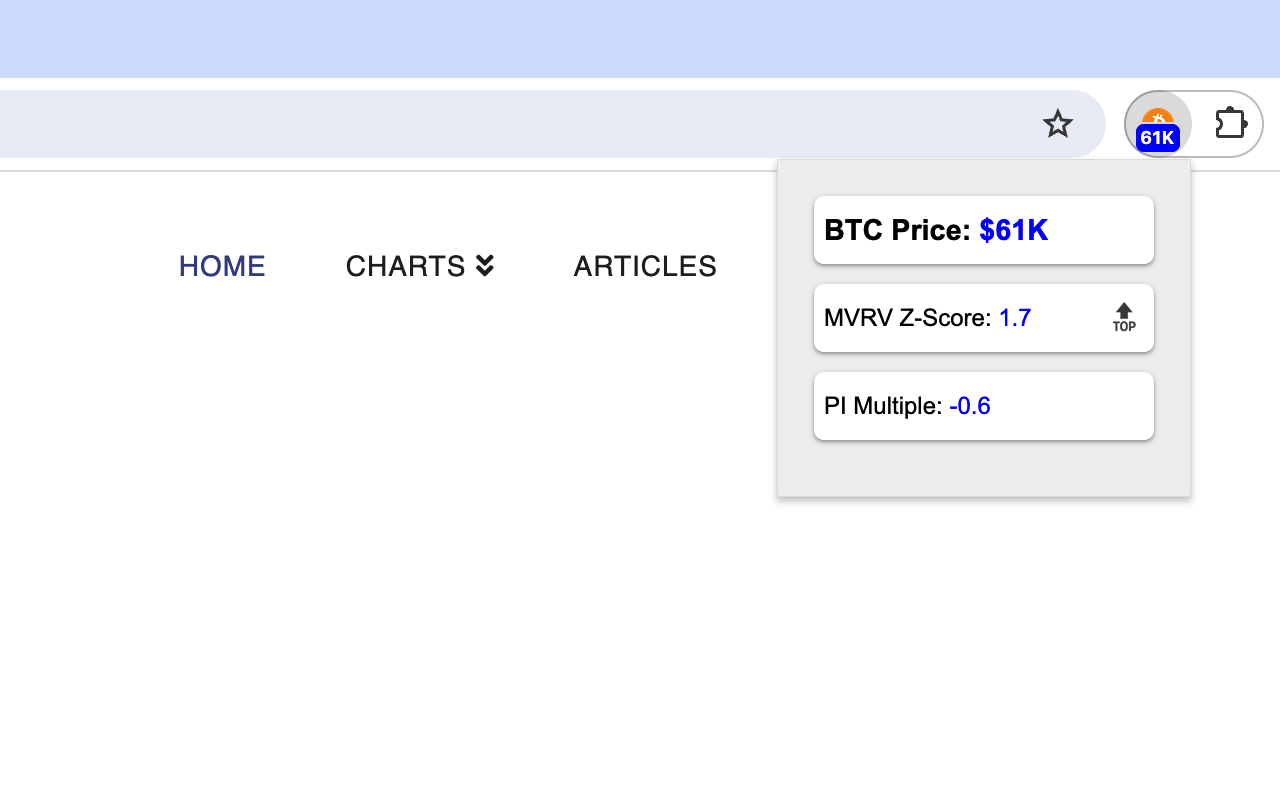
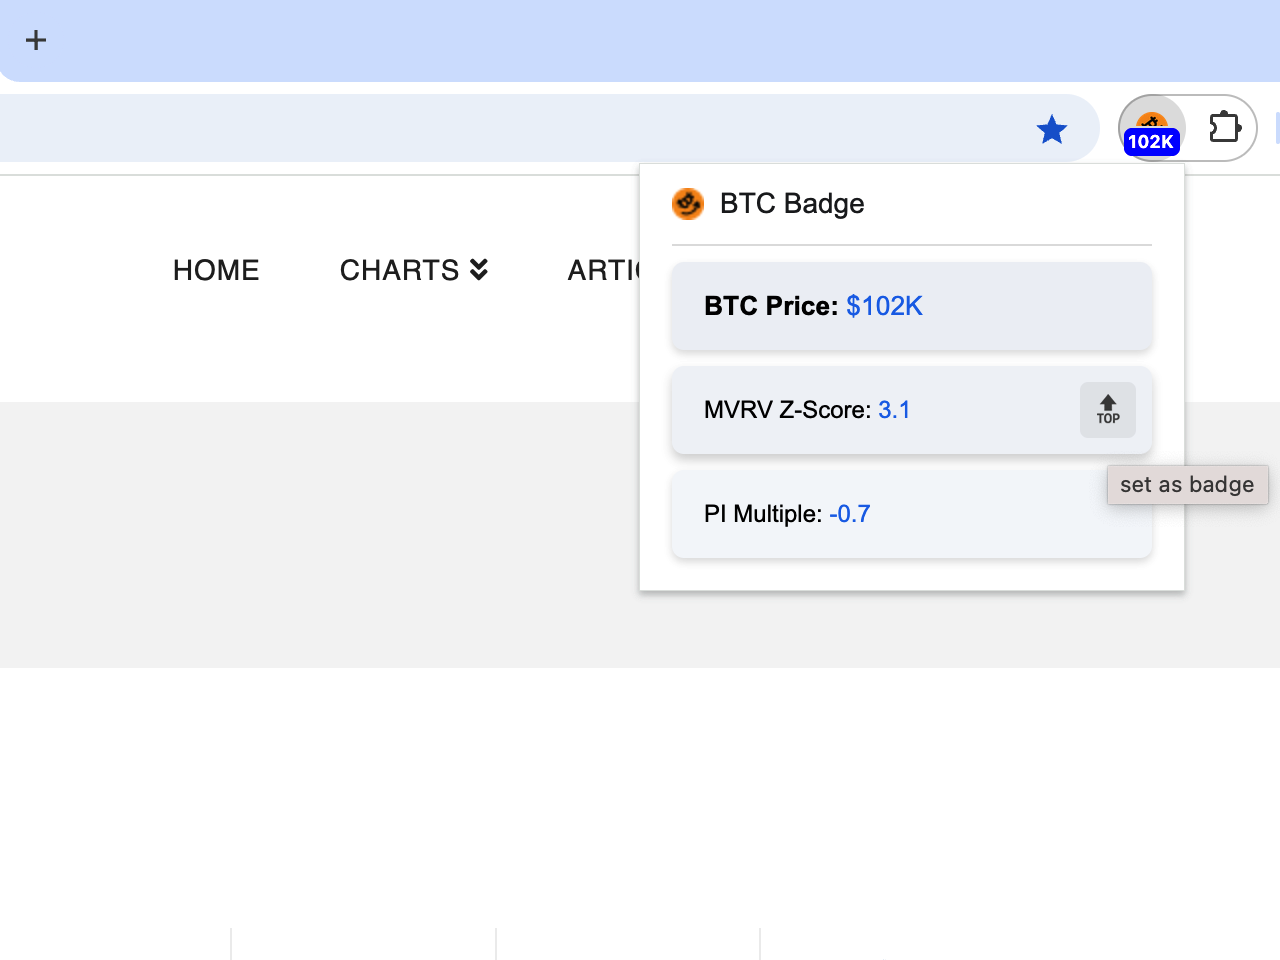
update style

diff --git a/styles.css b/styles.css
@@ -1,6 +1,6 @@
 body {
-    width: 200px;
-    padding: 0;
+    width: 240px;
+    padding: 0 16px;
     margin: 0;
     font-family: Arial, sans-serif;
     background-color: #ffffff;
@@ -9,10 +9,17 @@ body {
 .header {
     display: flex;
     align-items: center;
-    padding: 12px 16px;
+    padding: 12px 0;
     background-color: #ffffff;
     border-bottom: 1px solid #e0e0e0;
     margin-bottom: 8px;
+}
+
+.header-link {
+    display: flex;
+    align-items: center;
+    text-decoration: none;
+    color: inherit;
 }
 
 .header-icon {
@@ -27,12 +34,16 @@ body {
     color: #202124;
 }
 
+#stats {
+    padding-bottom: 8px;
+}
+
 .stats {
     margin-bottom: 8px;
-    padding: 10px 12px;
-    background-color: white;
+    padding: 10px 16px;
+    background-color: #f5f7fa;
     border-radius: 6px;
-    box-shadow: 0 1px 3px rgba(0,0,0,0.08);
+    box-shadow: 0 2px 4px rgba(0,0,0,0.12);
     position: relative;
     min-height: 24px;
     line-height: 24px;
@@ -41,18 +52,20 @@ body {
 }
 
 .stats:hover {
-    box-shadow: 0 2px 4px rgba(0,0,0,0.12);
+    box-shadow: 0 3px 6px rgba(0,0,0,0.16);
+    background-color: #f0f3f8;
 }
 
 .stats.first-child {
     font-weight: 600;
     font-size: 1.1em;
-    background-color: #f8f9fa;
+    background-color: #eef1f6;
 }
 
 .stats span {
     color: #1a73e8;
     font-weight: 500;
+    transition: color 0.2s ease;
 }
 
 .pin-button {
@@ -62,7 +75,7 @@ body {
     transform: translateY(-50%);
     width: 28px;
     height: 28px;
-    display: none;
+    opacity: 0;
     background: none;
     border: none;
     font-size: 16px;
@@ -72,6 +85,10 @@ body {
     transition: all 0.2s ease;
 }
 
+.stats:hover .pin-button {
+    opacity: 1;
+}
+
 .pin-button:hover {
     background-color: rgba(0, 0, 0, 0.05);
 }
@@ -79,6 +96,7 @@ body {
 a {
     color: inherit;
     text-decoration: none;
+    transition: color 0.2s ease;
 }
 
 a:hover {

diff --git a/popup.html b/popup.html
@@ -1,13 +1,16 @@
 <!DOCTYPE html>
-<html>
+<html lang="en">
 <head>
     <meta charset="UTF-8">
+    <meta name="viewport" content="width=device-width, initial-scale=1.0">
     <link rel="stylesheet" type="text/css" href="styles.css">
 </head>
 <body>
     <div class="header">
-        <img src="icon16.png" alt="BTC Badge" class="header-icon">
-        <span class="header-title">BTC Badge</span>
+        <a href="https://chromewebstore.google.com/detail/btc-badge-bitcoin-price-t/ifjgfkaoepolegjfndicdmcmigjdoofe" target="_blank" class="header-link">
+            <img src="icon16.png" alt="BTC Badge" class="header-icon">
+            <span class="header-title">BTC Badge</span>
+        </a>
     </div>
     <div id="stats"></div>
     <script type="module" src="popup.js"></script>

diff --git a/README.md b/README.md
@@ -15,6 +15,12 @@ A Chrome extension that displays real-time Bitcoin metrics directly in your brow
 
 ## Installation
 
+### Option 1: Install from Chrome Web Store (Recommended)
+
+Visit [BTC Badge on Chrome Web Store](https://chromewebstore.google.com/detail/btc-badge-bitcoin-price-t/ifjgfkaoepolegjfndicdmcmigjdoofe) and click "Add to Chrome" to install.
+
+### Option 2: Install from Source
+
 1. Download or clone this repository
 2. Open Chrome and navigate to `chrome://extensions/`
 3. Enable "Developer mode" in the top right corner
